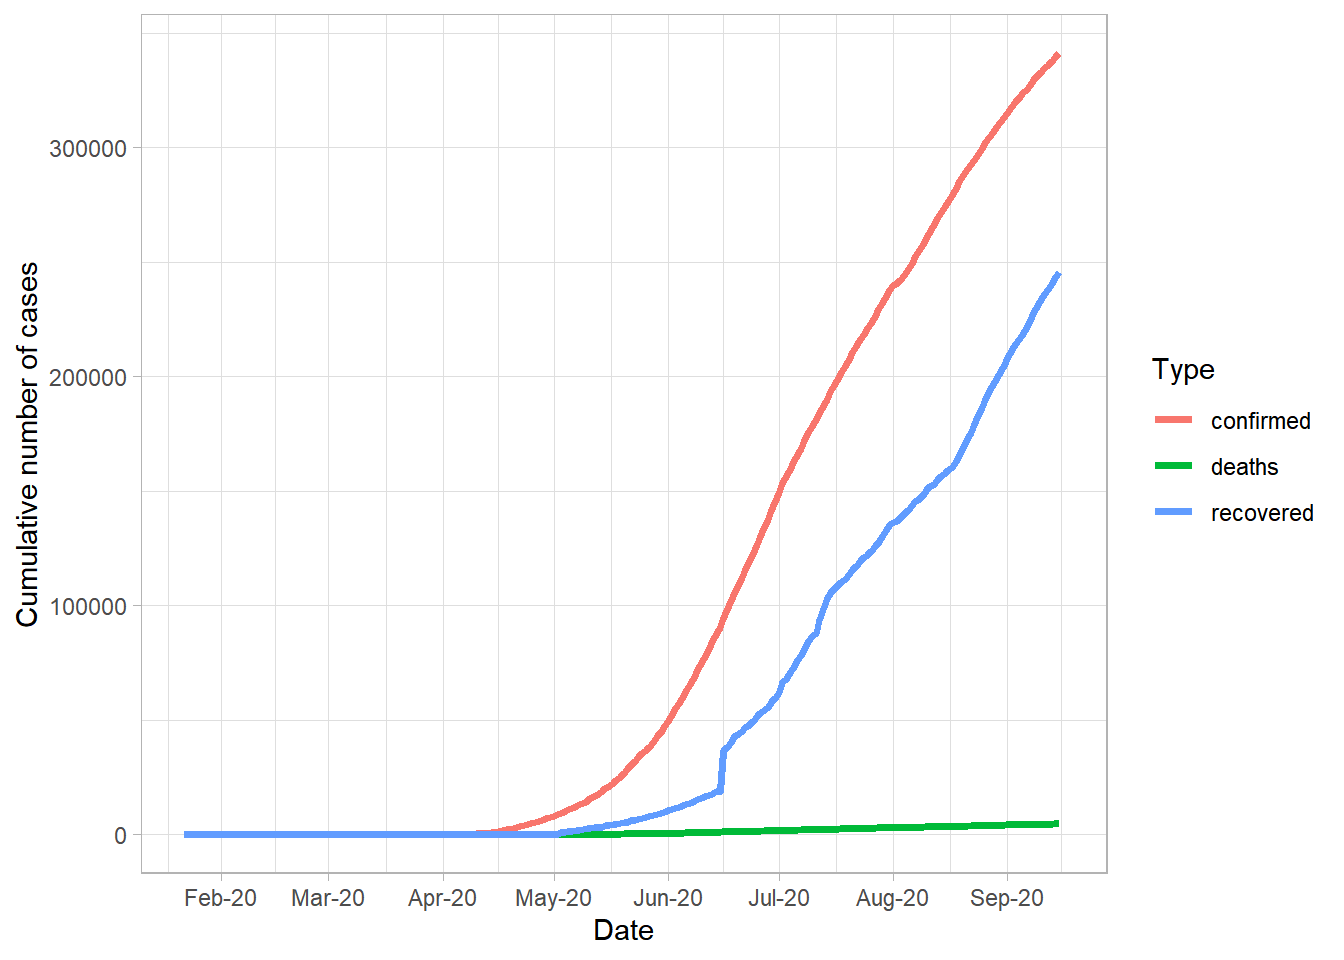
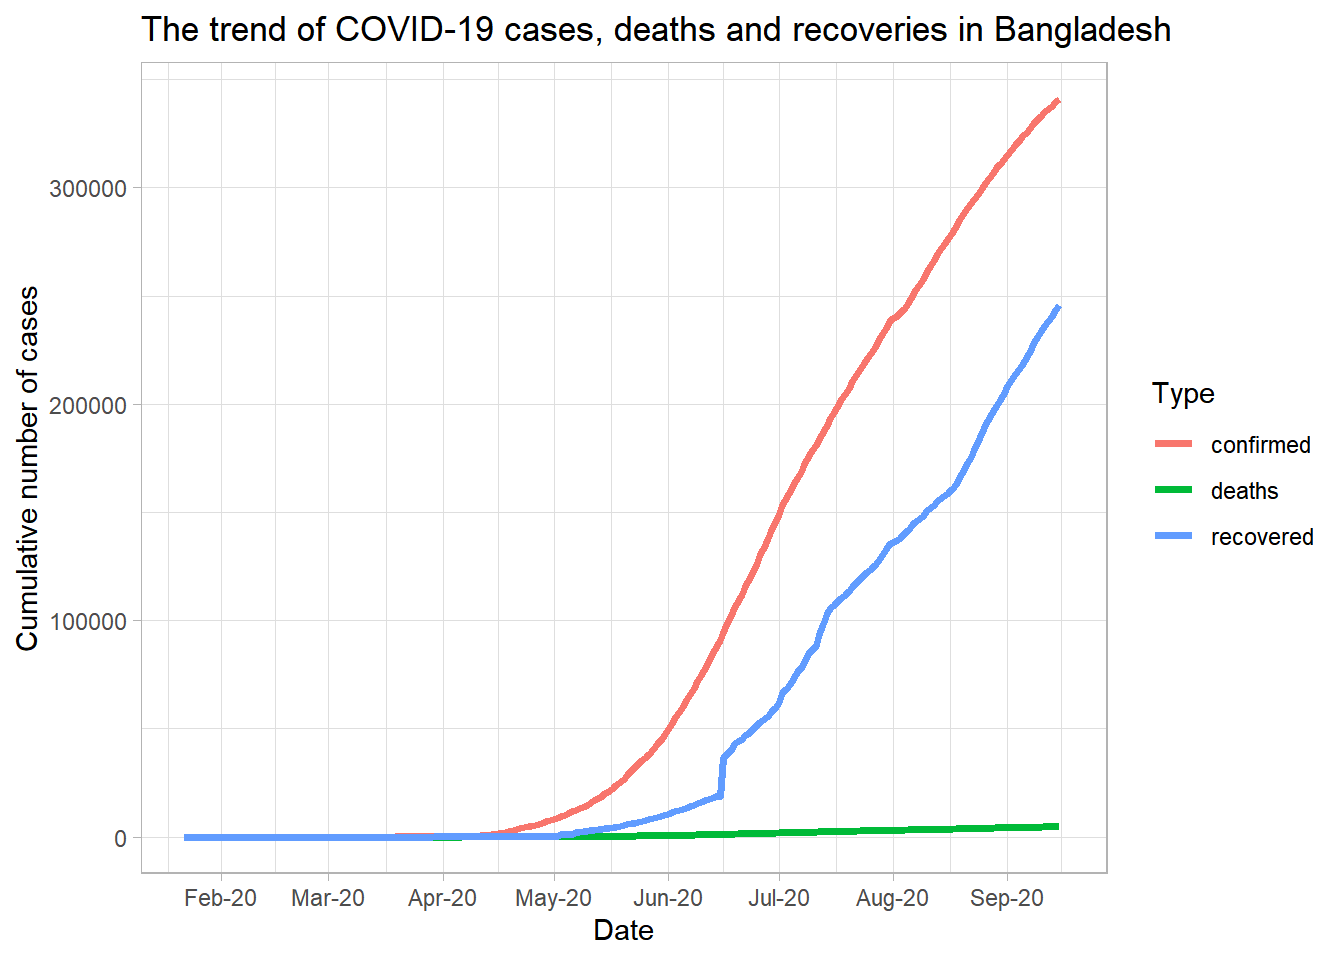
updated bangladesh covid post

diff --git a/content/post/covid-19-bangladesh/2020-09-16-an-analysis-of-covid-19-pandemic-in-bangladesh.en.html b/content/post/covid-19-bangladesh/2020-09-16-an-analysis-of-covid-19-pandemic-in-bangladesh.en.html
@@ -25,9 +25,9 @@ authors: []
 <p>The first three known cases of COVID-19 were reported in Bangladesh on the 8<sup>th</sup> of March 2020 by the country’s epidemiology institute (Reuters, 2020), and the virus is confirmed to have started spreading in Bangladesh in March 2020 (COVID-19 pandemic in Bangladesh, 2020).</p>
 <p>Figure <a href="#fig:trend-plot">1</a> visualizes the trend of cumulative confirmed COVID-19 cases, deaths and recoveries in Bangladesh.</p>
 <div class="figure"><span id="fig:trend-plot"></span>
-<img src="/post/covid-19-bangladesh/2020-09-16-an-analysis-of-covid-19-pandemic-in-bangladesh.en_files/figure-html/trend-plot-1.png" alt="The trend of cumulative COVID-19 cases, deaths and recoveries in Bangladesh" width="672" />
+<img src="/post/covid-19-bangladesh/2020-09-16-an-analysis-of-covid-19-pandemic-in-bangladesh.en_files/figure-html/trend-plot-1.png" alt="The trend of COVID-19 cases, deaths and recoveries in Bangladesh" width="672" />
 <p class="caption">
-Figure 1: The trend of cumulative COVID-19 cases, deaths and recoveries in Bangladesh
+Figure 1: The trend of COVID-19 cases, deaths and recoveries in Bangladesh
 </p>
 </div>
 <p>It’s evident that the spread has been comparatively low till around mid June and has escalated at a very high rate afterwards.</p>
@@ -35,13 +35,18 @@ Figure 1: The trend of cumulative COVID-19 cases, deaths and recoveries in Bangl
 <p>The rate of recoveries although starts out very, low shows a sharp rise in mid June, which may be accounted to a bulk recording of recoveries as at date. Since then, the rate of recoveries has increased significantly and accounts for a large proportion of the confirmed cases.</p>
 <p>The number of deaths however is consistently on the rise although at a much lower rate in comparison to the confirmed cases.</p>
 </div>
-<div id="corruption-in-handling-covid-19-in-bangladesh" class="section level2">
-<h2>Corruption in handling COVID-19 in Bangladesh</h2>
+<div id="corrupt-handling-of-covid-19-in-bangladesh" class="section level2">
+<h2>Corrupt handling of COVID-19 in Bangladesh</h2>
 <p>Bangladesh being the second most affected country in South Asia after India, and also having a high population density has been constantly criticised for one of the worlds lowest per capita testing rates rates (Dhaka Tribune. 2020, April 1) and corrupt practices in dealing with the pandemic.</p>
-<p>Figure <a href="#fig:trend-plot">1</a> visulaizes the trend of COVID-19 tests carried out in Bangladesh up until the 15<sup>th</sup> of September 2020, based on the data provided by the John Hopkins University.</p>
-<p><img src="/post/covid-19-bangladesh/2020-09-16-an-analysis-of-covid-19-pandemic-in-bangladesh.en_files/figure-html/testing-trend-1.png" width="672" /></p>
+<p>Figure <a href="#fig:testing-trend">2</a> visulaizes the trend of COVID-19 tests carried out in Bangladesh up until the 15<sup>th</sup> of September 2020, based on the data provided by the John Hopkins University.</p>
+<div class="figure"><span id="fig:testing-trend"></span>
+<img src="/post/covid-19-bangladesh/2020-09-16-an-analysis-of-covid-19-pandemic-in-bangladesh.en_files/figure-html/testing-trend-1.png" alt="The trend of COVID-19 tests carried out in Bangladesh" width="672" />
+<p class="caption">
+Figure 2: The trend of COVID-19 tests carried out in Bangladesh
+</p>
+</div>
 <p>Although Bangladesh has carried out a considerable number of tests over time, the rate of increase of testing remains almost constant with only 0.01% of the entire population of Bangladesh tested by the 15<sup>th</sup> of September 2020. Health Experts have claimed the low rate of testing is due to the government imposed fee on tests at government-run facilities and the requirement of a doctor’s note to get tested.</p>
-<p>Several have been denied medical treatment and turned away from hospitals due to the medical staff’s fear of transmission, while some of these cases resulted in death. In July 2020, several arrests were made in a hospital in Dhaka for fake COVID-19 negative certificates without conducting tests. Corrupt practices such as these has contributed immensely to the wide spread of COVID-19 in Bangladesh amidst the many social distancing restrictions and lockdowns imposed.</p>
+<p>Several have been denied medical treatment and turned away from hospitals due to the medical staff’s fear of transmission, while some of these cases resulted in death. In July 2020, several arrests were made in a hospital in Dhaka for fake COVID-19 negative certificates without conducting tests. Corrupt practices such as these has contributed immensely to the spread of COVID-19 in Bangladesh amidst the many social distancing restrictions and lockdowns imposed.</p>
 <p>The Institute of Epidemology, Disease Control and Research (IEDCR), the national Institute for conducting disease surveillance and outbreak investigation in Bangladesh was accused of publishing lower than actual COVID-19 cases in Dhaka on the 16th of June, and since then temporarily stopped publishing area-wise COVID-19 infection data (Dhaka Tribune. 2020, June 20). The resignation of the chief of the Directorate General of Health Services (DGHS), which is spearheading Bangladesh’s fight against COVID-19 has also given rise to many controversies related to the corrupt paractices followed.</p>
 <div id="references" class="section level3">
 <h3>References</h3>
